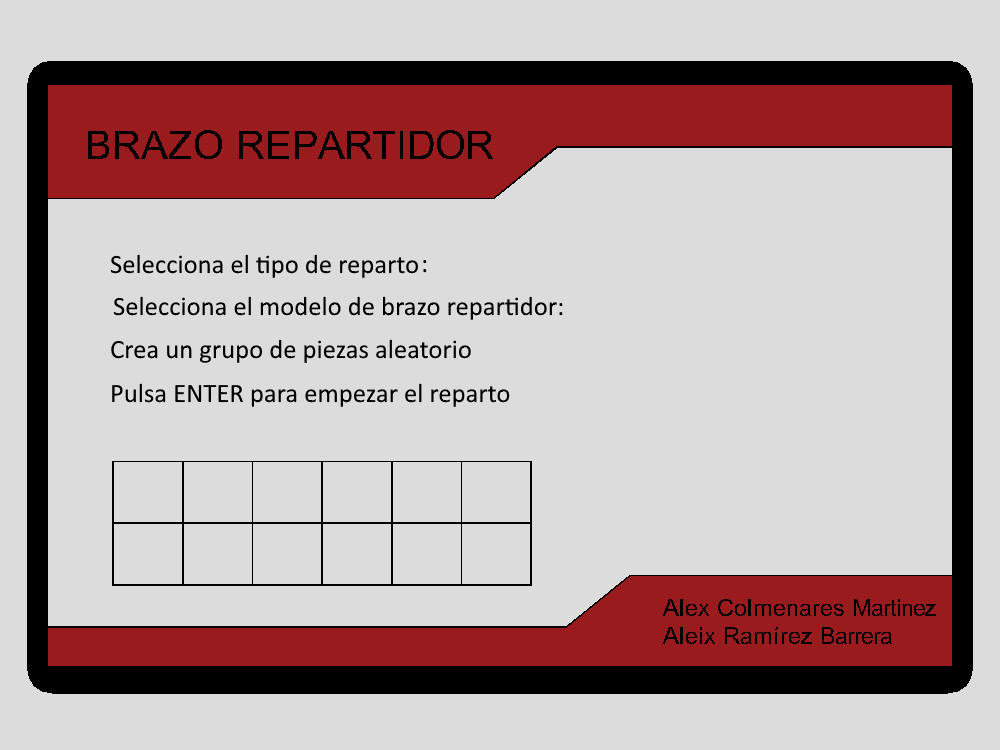
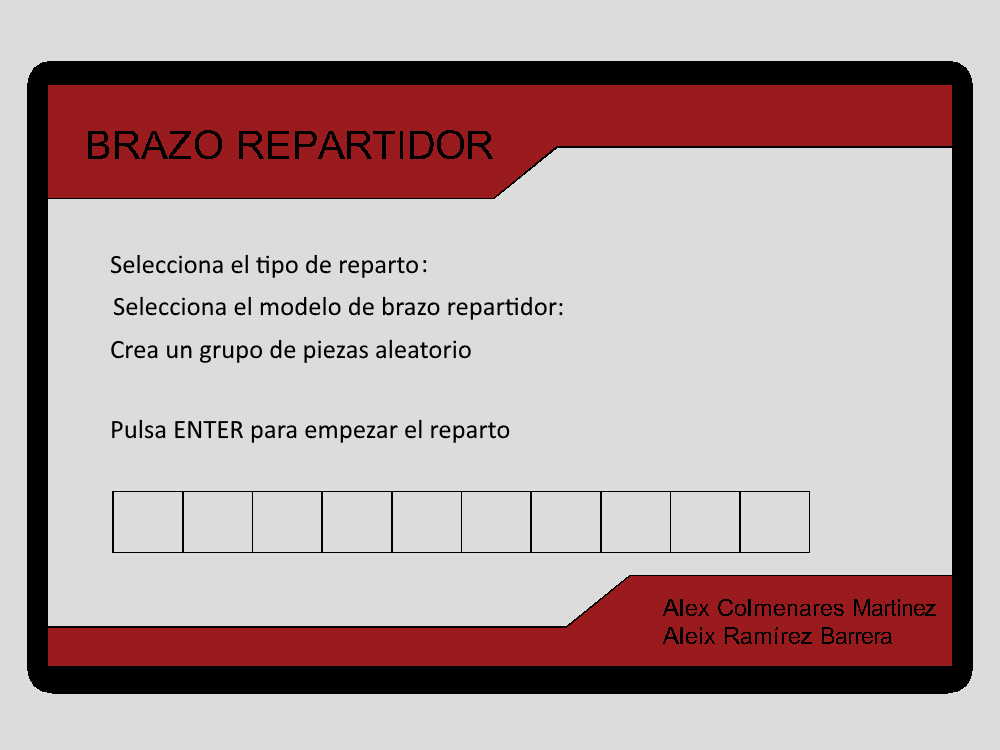
finished menu screen

diff --git a/main.py b/main.py
@@ -38,10 +38,15 @@ repartoDropDown.set_status("Por color")
 brazoDropDown.set_status(1)
 
 # creating parts
-part1 = Part((125, 467), (500, 500), (5, 5), (500, 500), (5, 5),)
-part1.setData()
-part1data = part1.getData()
-print(part1data)
+numberOfParts = 10
+allparts = []
+def randomParts(n,list):
+
+    for i in range(0, n):
+        list.append(Part(i))
+    return(list)
+
+randomParts(numberOfParts, allparts)
 
 # ==================== FUNCTIONS ==================== #
 
@@ -87,23 +92,37 @@ while run:
         background = menuBackground
         repartoDropDown.draw()
         brazoDropDown.draw()
-        part1.drawMenu()
+        menuDist = 0
+
+
         if brazoDropDown.get_status() == 1:
-            screen.blit(brazo1, (693, 250))
-            draw_text_with_rectangle(660, 470, grey, 'Brazo Mecánico genérico', 12)
+            screen.blit(brazo1, (693, 200))
+            draw_text_with_rectangle(660, 420, grey, 'Brazo Mecánico genérico', 12)
         if brazoDropDown.get_status() == 2:
-            screen.blit(brazo2, (693, 250))
-            draw_text_with_rectangle(660, 470, grey, 'Brazo Mecánico Premium', 12)
-            draw_text_with_rectangle(660, 505, grey, 'Doble velocidad', 12)
+            screen.blit(brazo2, (693, 200))
+            draw_text_with_rectangle(660, 420, grey, 'Brazo Mecánico Premium', 12)
+            draw_text_with_rectangle(660, 455, grey, 'Doble velocidad', 12)
+        crear_rect = pygame.draw.rect(screen, green, pygame.Rect(480, 340, 90, 30))
         crear = draw_text_with_rectangle(480, 340, grey, 'CREAR', 18)
 
         # check menu option changes and ENTER key presses
         for event in events:
+            mouse_rect = pygame.Rect((*pygame.mouse.get_pos(), 1, 1))
             repartoDropDown.events(event)
             brazoDropDown.events(event)
             if event.type == pygame.KEYDOWN:
                 if event.key == pygame.K_RETURN:
                     state = states[1]
+            if event.type == pygame.MOUSEBUTTONDOWN:
+                if crear_rect.collidepoint(event.pos):
+                    print("asd")
+                    allparts = []
+                    randomParts(numberOfParts, allparts)
+                    print(allparts)
+        for i in range(0, numberOfParts):
+            allparts[i].move(menuDist)
+            allparts[i].drawMenu()
+            menuDist += 1
 
     # State is main
     if state == states[1]:

diff --git a/part.py b/part.py
@@ -3,22 +3,23 @@ import random
 pygame.init()
 dimensions = [SCREEN_WIDTH, SCREEN_HEIGHT]
 screen = pygame.display.set_mode(dimensions)
-class Part:
-    def __init__(self, menu_pos, init_pos, init_speed, current_pos,
-                 current_speed, partColor = grey, partPeso = 10, partForm = 1):
-        self.init_pos = init_pos
-        self.menu_pos = menu_pos
-        self.init_speed = init_speed
-        self.current_pos = current_pos
-        self.current_speed = current_speed
-        self.partColor = partColor
-        self.partPeso = partPeso
-        self.partForm = partForm
+class Part(object):
+    def __init__(self, name):
+        self.name = name
+        self.menu_pos = (125, 498)
+        self.init_pos = (500, 500)
+        self.init_speed = (5, 5)
+        self.current_pos = (500, 500)
+        self.current_speed = (5, 5)
+        self.partColor = random.choice(colors)
+        self.partPeso = random.choice(pesos)
+        self.partForm = random.choice(forms)
     def drawMenu(self):
         pygame.draw.rect(screen, black, [self.menu_pos[0], self.menu_pos[1], 50, 50])
         pygame.draw.rect(screen, self.partColor, [self.menu_pos[0] + rectangleWidth, self.menu_pos[1] + rectangleHeight, 30, 30])
     #def drawMain(self):
-    #def move(self):
+    def move(self, n ):
+        self.menu_pos = (125 + 69 * n, 498)
     def setData(self):
         self.partColor = random.choice(colors)
         self.partPeso = random.choice(pesos)

diff --git a/testfile.py b/testfile.py
@@ -1,0 +1,14 @@
+class MyClass(object):
+    def __init__(self, number):
+        self.number = number
+
+
+my_objects = []
+
+for i in range(100):
+    my_objects.append(MyClass(i))
+
+# later
+print(my_objects)
+'''for obj in my_objects:
+    print(obj.number)'''
